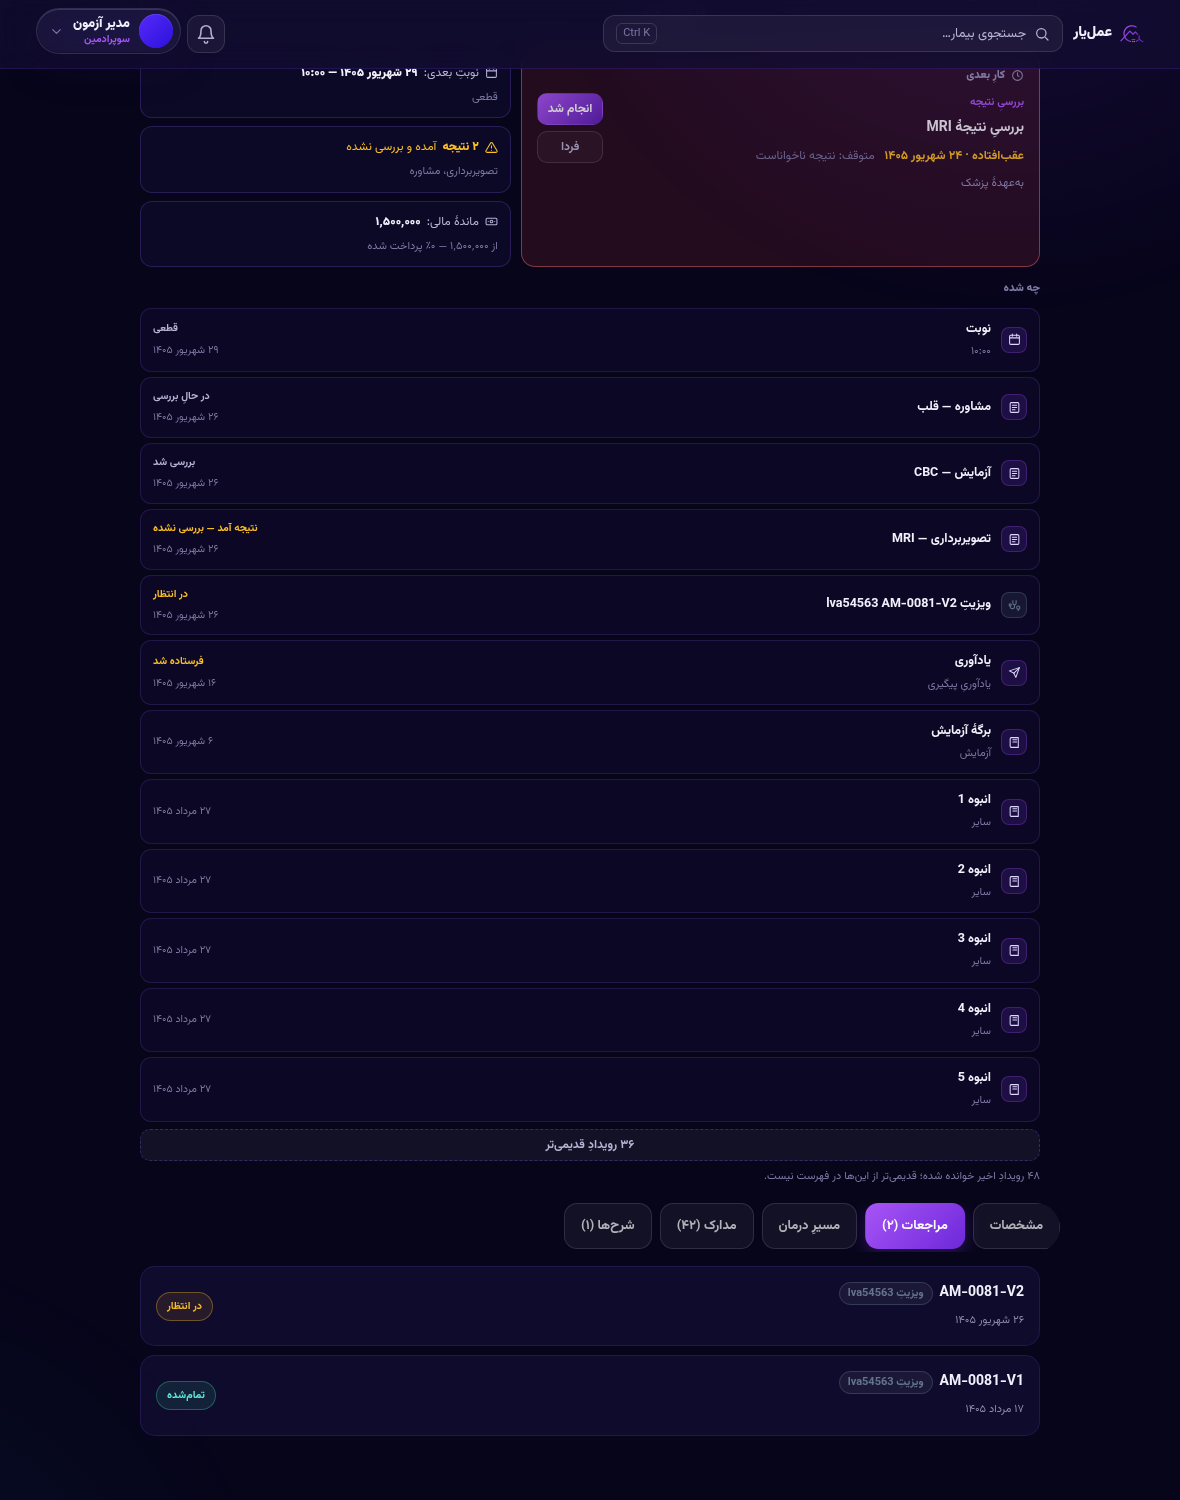
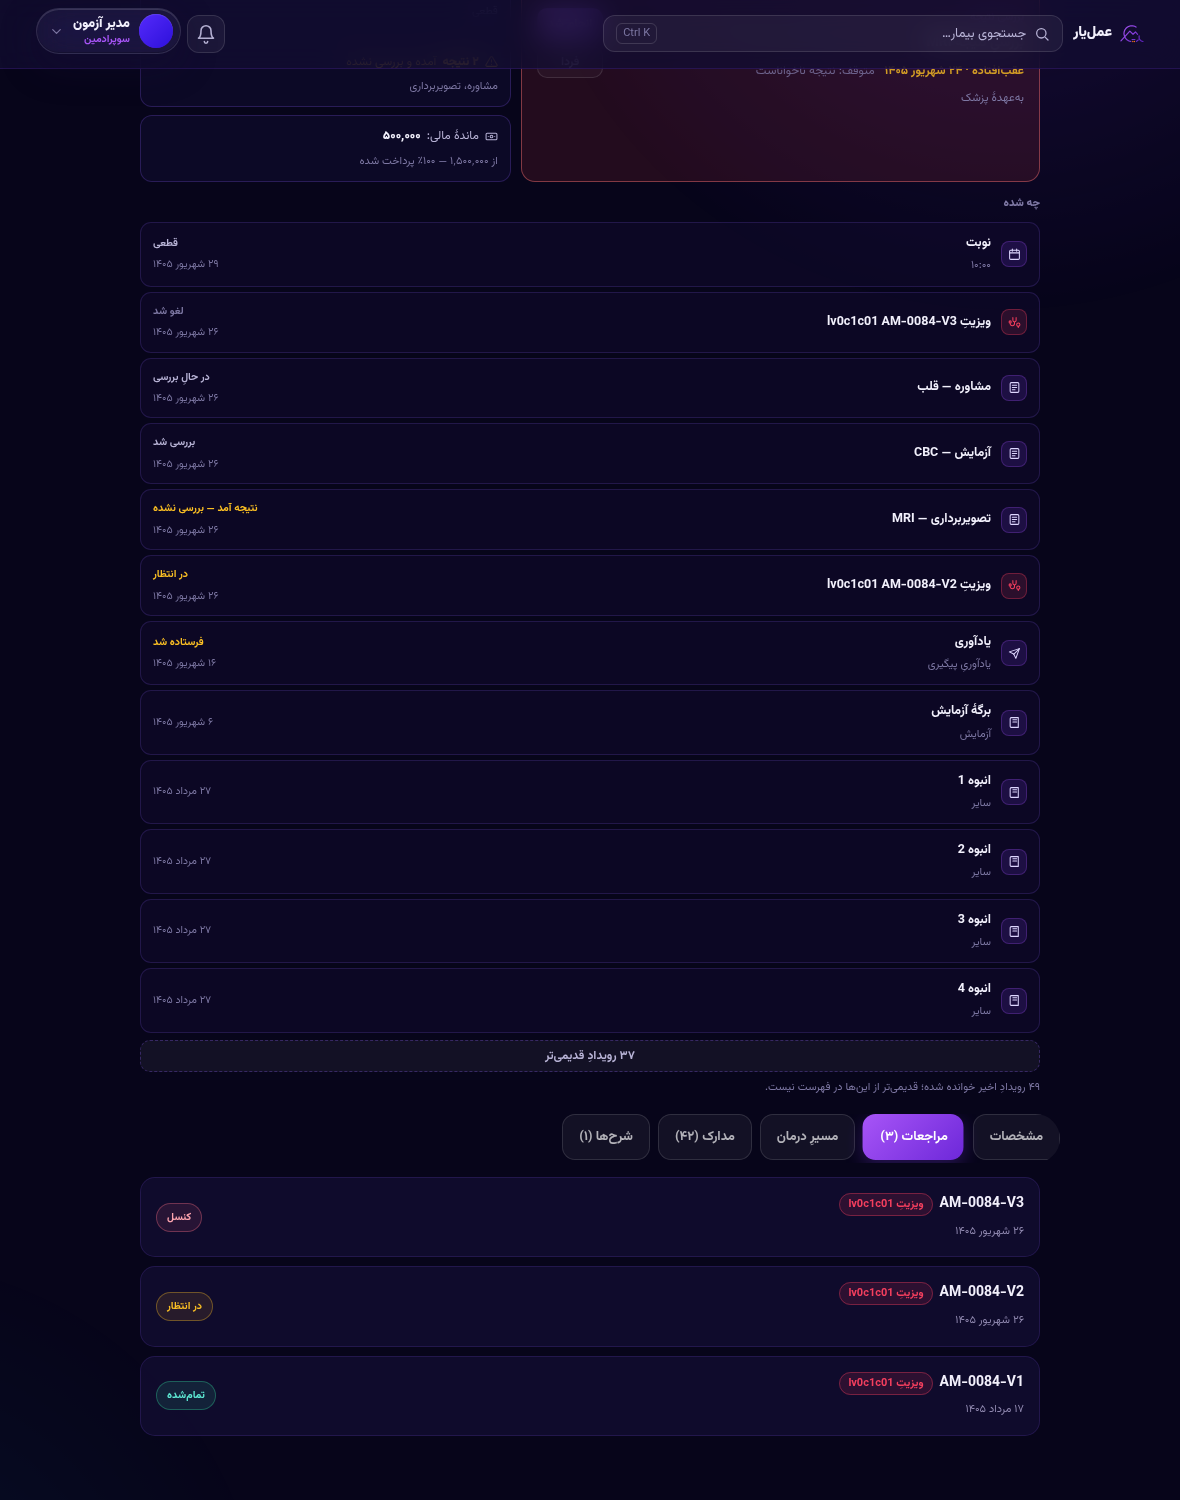
fix(W3.1): پنج یافتهٔ بازبینیِ متخاصم — گیتِ ماژول، سقفِ سفارش، دو باگِ مالی
بازبینیِ چنددیدگاهیِ diff (۵ بُعد، هر یافته با دو منتقدِ مستقل سنجیده شد) پنج
مورد داد که هر پنج با کد تأیید شدند — سهتایشان الگویی داشتند که خودِ همین
مخزن قبلاً مستندش کرده بود:

۱. **نوبتها گیتِ `Feature('calendar')` را دور میزدند** و کارها گیتِ
   `Feature('work')` + `work.read` را. کنترلرِ آن ماژولها در این مسیر نیست،
   پس نصبی که پلنش تقویم/کار ندارد همان داده را از این در میگرفت. حالا با
   `canAccess` (همان helperِ `billing.service.ts`) و سه پرچمِ صریح.
۲. **سقفِ سفارش، سفارشِ باز را پنهان میکرد:** چهار کوئری در یک آرایه بدونِ
   مرتبسازی میریختند، پس بیمارِ ۲۱-آزمایشی هر سفارشِ تصویربرداری/مشاوره را
   از دست میداد و «نتیجه آمده و بررسی نشده» بیصدا ناپدید میشد.
۳. **مراجعهٔ لغوشده ماندهٔ ابدی میساخت.** حذفِ مراجعهٔ فاکتوردار عمداً ممنوع
   است و کاربر را به «لغو» میفرستد؛ `visitStats` همین را با
   `opStatus: { not: 'cancelled' }` کنار گذاشته بود و اینجا جا افتاده بود.
۴. **مانده بینِ مراجعهها خالص میشد.** کامنتِ خودِ `visitStats` این تله را
   نوشته است: «مانده باید در سطحِ مراجعه صفر شود، وگرنه اضافهپرداختِ یک
   بیمار بدهیِ بیمارِ دیگر را میپوشاند». حالا `Σ max(0, due)`.

و دو باگ در خودِ سنجهها که همانقدر مهم بودند: گیت را با حسابِ سوپرادمین
میسنجید (قانون ۳ میگوید او همیشه عبور میکند، پس تست بیآنکه چیزی را اثبات
کند سبز میشد)، و کنترلِ مثبتش سقفِ سطحِ `calendar` را حساب نکرده بود.

e2e ۵۱ → ۶۰ سنجه · قرارداد: `CONTRACTS.md` §۱۲ بندهای ۸–۱۰

Claude-Session: https://claude.ai/code/session_01Tio7pqtgvFfxgPrANm9aF2

diff --git a/server/src/patients/live.service.ts b/server/src/patients/live.service.ts
@@ -5,6 +5,7 @@ import { WorkService } from '../work/work.service';
 import { summarize } from './billing.service';
 import { colorForKey } from './forms.service';
 import { APPT_LABELS } from './appointments.service';
+import { canAccess } from '../auth/access-check';
 
 /**
  * سفارشِ باز = نتیجهای که یا نیامده یا آمده و هنوز بسته نشده.
@@ -132,6 +133,16 @@ export class LiveService {
        چیزی را میدید که `/orders` به او نمیدهد. دو دروازه برای یک داده = یکیشان
        بیاثر. */
     const ordersVisible = clinical;
+    /* ⚠ **هر بخشی که از ماژولِ دیگری میخواند، گیتِ همان ماژول را میخواهد**
+       (قانون ۳). نوبتها پشتِ `@Feature('calendar')` و کارها پشتِ
+       `@Feature('work')` + `work.read` هستند؛ اینجا کنترلرِ آنها در کار نیست،
+       پس گیت باید صریح زده شود — دقیقاً همان کاری که `today.service.ts` با
+       `FeaturesService.forUser` و `billing.service.ts` با `canAccess` میکنند.
+       بدونش نصبی که پلنش تقویم/کار ندارد، همان داده را از این در میگرفت. */
+    const [apptVisible, workVisible] = await Promise.all([
+      canAccess(this.prisma, user, 'calendar', []),
+      canAccess(this.prisma, user, 'work', ['work.read']),
+    ]);
     const now = new Date();
     const today = new Date(now); today.setHours(0, 0, 0, 0);
 
@@ -147,7 +158,7 @@ export class LiveService {
           payments: { select: { amount: true } },
         },
       }),
-      this.prisma.appointment.findMany({
+      apptVisible ? this.prisma.appointment.findMany({
         where: { patientId },
         orderBy: [{ date: 'desc' }, { startMin: 'desc' }],
         take: CAP.appointments + 1,
@@ -157,7 +168,7 @@ export class LiveService {
           topic: { select: { name: true, color: true } },
           doctor: { select: { person: { select: { firstName: true, lastName: true } } } },
         },
-      }),
+      }) : Promise.resolve([] as any[]),
       ordersVisible ? this.orders(patientId) : Promise.resolve([] as any[]),
       this.prisma.document.findMany({
         where: { patientId, deletedAt: null },
@@ -192,7 +203,10 @@ export class LiveService {
     const documentsC = trim(documents, CAP.documents);
     const notesC = trim(notes, CAP.notes);
     const remindersC = trim(reminders, CAP.reminders);
-    const ordersC = trim(orders, CAP.orders);
+    /* سفارشها سقفشان را **داخلِ** `orders()` میخورند (بازها هرگز حذف نمیشوند)،
+       پس اینجا فقط سرریز اعلام میشود و دوباره بریده نمیشود. */
+    const ordersC = orders;
+    if (orders.length >= CAP.orders) capped = true;
 
     const kindTitle: Record<string, string> = {};
     const kindColor: Record<string, string> = {};
@@ -206,7 +220,7 @@ export class LiveService {
 
     /* کارهای باز از همان لایهٔ کار میآید، نه کوئریِ محلی: مالک، موعد، و
        «عقبافتاده» آنجا حساب میشوند و دو نسخهشان یعنی دو حقیقت. */
-    const work = await this.work.list(user, { scope: 'patient', patientId, limit: 20 });
+    const work = workVisible ? await this.work.list(user, { scope: 'patient', patientId, limit: 20 }) : [];
 
     const billing = this.billing(visits);
     const cycle = visits[0] ?? null;
@@ -220,8 +234,8 @@ export class LiveService {
       patient: { id: patient.id, code: patient.code, fullName: `${patient.firstName} ${patient.lastName}`.trim() },
       clinicalVisible: clinical,
       /* «خالی» را از «اجازه نداری» جدا میکند — وگرنه منشی فکر میکند سفارشی نیست. */
-      ordersVisible,
-      stage: this.stage({ patient, visits, cycle, appointments: appointmentsC, upcoming, orders: ordersC, openOrders, billing, kindTitle, today, ordersVisible }),
+      ordersVisible, apptVisible, workVisible,
+      stage: this.stage({ patient, visits, cycle, appointments: appointmentsC, upcoming, orders: ordersC, openOrders, billing, kindTitle, today, ordersVisible, apptVisible }),
       /* «کارِ بعدی» = بالاترین کارِ باز. بقیه هم میآیند تا کارت بتواند بگوید
          «۳ کارِ دیگر» بیآنکه درخواستِ دوم بزند. */
       nextWork: work[0] ?? null,
@@ -256,7 +270,7 @@ export class LiveService {
    * خودشان را در کارتِ «کارِ بعدی» دارند.
    */
   private stage(x: any): { key: string | null; title: string; detail: string | null; steps: Step[] } {
-    const { patient, visits, cycle, appointments, upcoming, orders, openOrders, billing, kindTitle, today, ordersVisible } = x;
+    const { patient, visits, cycle, appointments, upcoming, orders, openOrders, billing, kindTitle, today, ordersVisible, apptVisible } = x;
     const steps: Step[] = [];
     const add = (key: string, title: string, state: Step['state'], detail: string | null, at: Date | null = null) =>
       steps.push({ key, title, state, detail, at });
@@ -266,7 +280,9 @@ export class LiveService {
     /* نوبت: «رد شد» وقتی بیمار اصلاً نوبت نگرفته ولی مراجعه دارد — مراجعهٔ
        حضوری حالتِ عادی است، نه گامِ ناتمام. */
     const pastAppt = appointments.find((a: any) => a.status === 'done' || a.status === 'arrived' || a.visitId);
-    if (upcoming.length) {
+    if (!apptVisible) {
+      add('appointment', 'نوبت', 'skipped', 'ماژولِ نوبتدهی برای این حساب باز نیست', null);
+    } else if (upcoming.length) {
       add('appointment', 'نوبت', cycle && cycle.opStatus === 'pending' ? 'done' : 'current',
         `${upcoming.length} نوبتِ پیشِ رو`, upcoming[0].date);
     } else if (pastAppt) {
@@ -419,15 +435,35 @@ export class LiveService {
    * اقلامِ همهٔ مراجعات در یک `summarize` مبلغِ توافقی را نادیده میگرفت.
    */
   private billing(visits: any[]) {
-    let total = 0, itemsTotal = 0, paid = 0;
+    let total = 0, itemsTotal = 0, paid = 0, due = 0;
     for (const v of visits) {
+      /* ⚠ مراجعهٔ **لغوشده** پول نمیخواهد. `setStatus` فقط `opStatus` را عوض
+         میکند و قلمها سرِ جایشان میمانند؛ حذفِ مراجعهٔ فاکتوردار هم عمداً
+         ممنوع است و کاربر را به «لغو» میفرستد. پس بدونِ این شرط، هر لغوِ
+         فاکتوردار یک ماندهٔ **ابدی** روی پرونده میگذاشت که داشبورد نشان
+         نمیدهد (`visitStats` همان `opStatus: { not: 'cancelled' }` را دارد). */
+      if (v.opStatus === 'cancelled') continue;
       const s = summarize(v.charges, v.payments, v);
       total += s.total; itemsTotal += s.itemsTotal; paid += s.paid;
+      /* ⚠ مانده **بهازای هر مراجعه** کف میخورد و بعد جمع میشود، نه
+         `total - paid`. همان تلهٔ مستندِ `visitStats`: اضافهپرداختِ یک مراجعه
+         بدهیِ مراجعهٔ دیگر را میپوشاند و گامِ «تسویه» دروغِ «تسویه شد» میگفت. */
+      due += Math.max(0, s.due);
     }
     const paidPct = total > 0 ? Math.min(100, Math.max(0, Math.round((paid / total) * 100))) : 0;
-    return { total, itemsTotal, paid, due: total - paid, paidPct };
+    return { total, itemsTotal, paid, due, paidPct };
   }
 
+  /**
+   * ⚠ چهار کوئریِ جدا در **یک آرایه** میریزند، پس ترتیبِ خام «همهٔ آزمایشها،
+   * بعد همهٔ تصویربرداریها…» است نه زمانی. بدونِ مرتبسازی، `trim(…, ۲۰)`
+   * بیمارِ ۲۱-آزمایشی را طوری میبرید که **هر** سفارشِ تصویربرداری/مشاوره/ارجاع
+   * دور ریخته شود — یعنی «۱ نتیجه آمده و بررسی نشده» بیصدا ناپدید میشد.
+   *
+   * ⚠ و سقف هم نباید سفارشِ **باز** را پنهان کند: بازها کماند و کارِ همین
+   * حالا؛ بستهها تاریخچهاند. پس بازها کامل میمانند و سقف فقط دنبالهٔ بستهها
+   * را میبرد.
+   */
   private async orders(patientId: number) {
     const out: any[] = [];
     for (const k of ORDER_KINDS) {
@@ -440,7 +476,12 @@ export class LiveService {
         ...r, kind: k.key, kindFa: k.fa, summary: LiveService.orderSummary(k.key, r),
       })));
     }
-    return out;
+    const when = (o: any) => new Date(o.sentAt ?? o.createdAt).getTime();
+    out.sort((a, b) => when(b) - when(a));
+    const open = out.filter((o) => OPEN_ORDER.includes(o.status));
+    const closed = out.filter((o) => !OPEN_ORDER.includes(o.status));
+    return [...open, ...closed.slice(0, Math.max(0, CAP.orders - open.length))]
+      .sort((a, b) => when(b) - when(a));
   }
 
   private order(o: any, code: string, visits: any[]) {

diff --git a/docs/plan/CONTRACTS.md b/docs/plan/CONTRACTS.md
@@ -256,6 +256,25 @@ retry: `uncertain` تا ۳ بار با backoff ۵/۱۵/۴۵ دقیقه، بعد 
 7. **برچسبِ مالکِ کار سمتِ سرور است** (`ownerRoleFa` در `WorkService.enrich`،
    از `OWNER_ROLE_FA` در `work-rules.ts`). نسخهٔ کلاینتی `admin` را نداشت — که
    همان فایل صادرش میکند — و کلیدِ خامِ انگلیسی در رابطِ فارسی چاپ میشد.
-8. **قالبِ پول از سرور نمیآید.** هیچ مبلغی در متنِ سرور رشته نمیشود؛ کلاینت
+8. **هر بخشی که از ماژولِ دیگری میخواند، گیتِ همان ماژول را میزند** (قانون ۳):
+   نوبتها `Feature('calendar')`، کارها `Feature('work')` + `work.read`،
+   سفارشها سطحِ `TECH_ADMIN`. سه پرچمِ `apptVisible`/`workVisible`/`ordersVisible`
+   «خالی» را از «اجازه نداری» جدا میکنند. کنترلرِ آن ماژولها در این مسیر نیست،
+   پس گیتِ ضمنی وجود ندارد و باید صریح زده شود — همان کاری که `today.service.ts`
+   با `FeaturesService.forUser` و `billing.service.ts` با `canAccess` میکنند.
+   ⚠ سنجهٔ گیت را با حسابِ **سوپرادمین** نزن: قانون ۳ میگوید او همیشه عبور
+   میکند، پس تست سبز میشود بیآنکه چیزی را اثبات کند.
+9. **سقف هرگز یک سفارشِ باز را پنهان نمیکند.** چهار کوئریِ سفارش در یک آرایه
+   میریزند، پس ترتیبِ خام «اول همهٔ آزمایشها» است نه زمانی؛ بدونِ مرتبسازی،
+   بیمارِ ۲۱-آزمایشی هر سفارشِ تصویربرداری/مشاوره را از دست میداد. بازها کامل
+   میمانند و سقف فقط دنبالهٔ بستهها را میبرد.
+10. **مراجعهٔ لغوشده پول نمیخواهد، و مانده بهازای هر مراجعه کف میخورد.**
+   `setStatus` فقط `opStatus` را عوض میکند و قلمها میمانند؛ حذفِ مراجعهٔ
+   فاکتوردار هم عمداً ممنوع است و کاربر را به «لغو» میفرستد — پس بدونِ این شرط
+   هر لغوِ فاکتوردار یک **ماندهٔ ابدی** میساخت که داشبورد نشان نمیدهد. و
+   `due` جمعِ `max(0, dueِ هر مراجعه)` است نه `total - paid`: همان تلهٔ مستندِ
+   `visitStats` که اضافهپرداختِ یک مراجعه بدهیِ مراجعهٔ دیگر را میپوشاند و
+   گامِ «تسویه» دروغِ «تسویه شد» میگفت.
+11. **قالبِ پول از سرور نمیآید.** هیچ مبلغی در متنِ سرور رشته نمیشود؛ کلاینت
    `fmtMoney` میزند (قانون ۱۳). در عوض متنِ سرور در رابط از `faNum` رد میشود
    تا شمارشها («۲ نتیجه…») عددِ لاتین نمانند.
